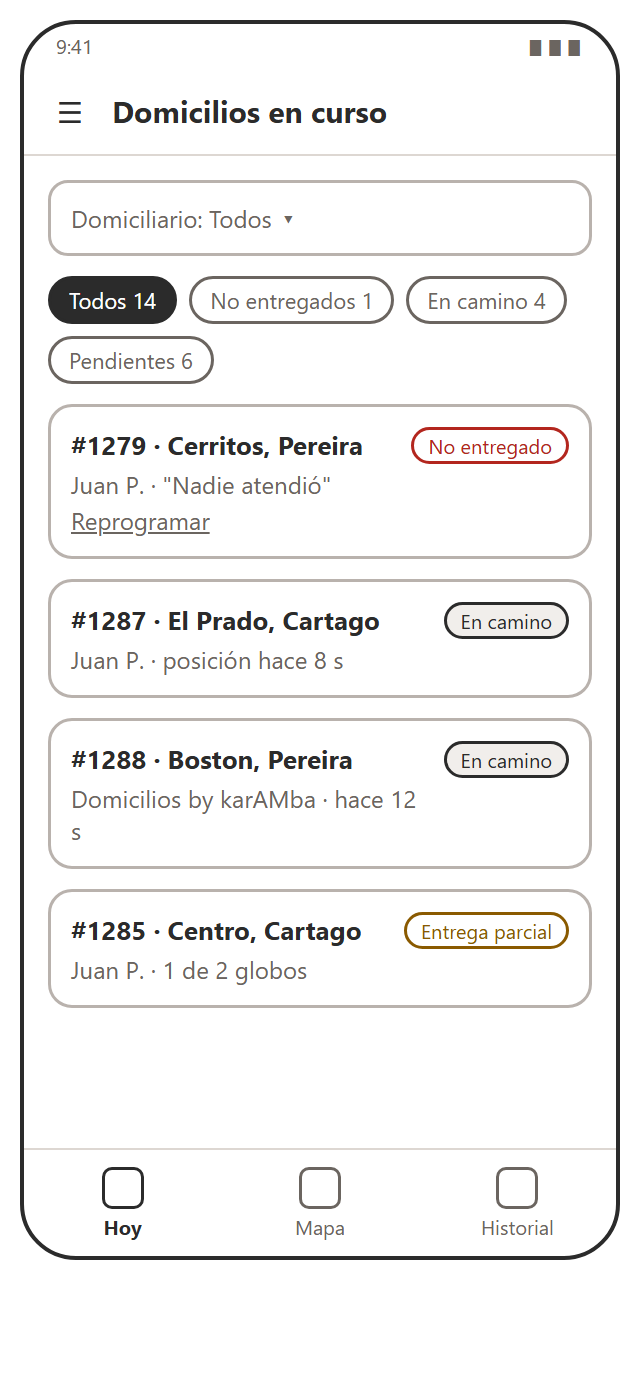
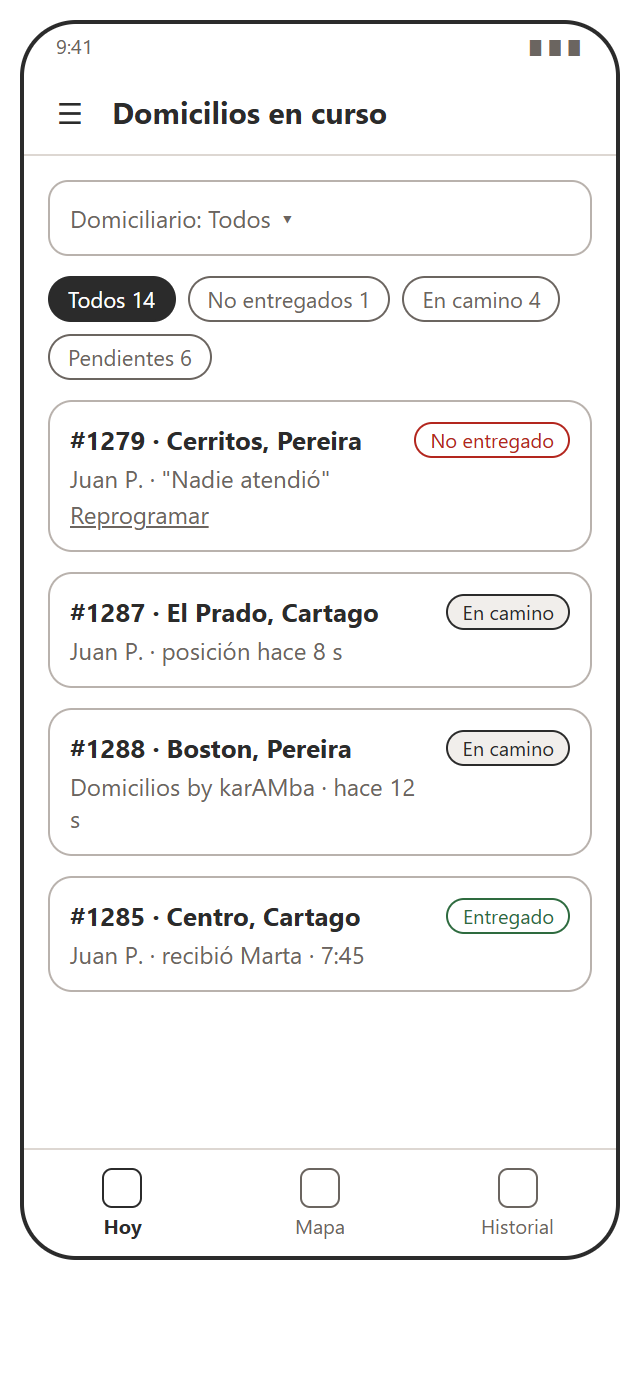
docs: quita la entrega parcial de los wireframes
Confirmar entrega solo pide quién recibió y el contador de unidades pasa a un wireframe nuevo de verificación de la carga al salir. Corrige el singular del aviso de carga en la app.

diff --git a/docs/wireframes/index.html b/docs/wireframes/index.html
@@ -269,6 +269,26 @@
       <figcaption><b>Detalle del domicilio</b><code>domicilio/[id]</code> · RF-10, RF-11. Ruta dinámica. Las acciones cambian según el estado: <i>pendiente</i> → iniciar; <i>en camino</i> → confirmar o no entrega.</figcaption>
     </figure>
 
+    <figure id="verificar-carga">
+      <div class="tel">
+        <div class="barra-sis"><span>9:41</span><span>▮▮▮</span></div>
+        <div class="cab"><span class="ic">‹</span>Domicilio #1290</div>
+        <div class="cuerpo">
+          <div class="etq">Verifica lo que llevas</div>
+          <div class="txt">Cuenta las unidades de cada producto que cargas. El pedido se entrega completo.</div>
+          <div class="contador"><b>K01 Desayuna y pide un deseo</b><div class="ctl"><span>−</span><b>1</b><span class="off">+</span></div><span class="meta">Pedido: 1</span></div>
+          <div class="contador"><b>Globo metalizado</b><div class="ctl"><span>−</span><b>1</b><span>+</span></div><span class="meta" style="color:var(--aviso)">Pedido: 2</span></div>
+          <div class="txt">Falta 1 unidad por cargar.</div>
+          <div class="sep"></div>
+          <div class="etq">¿Ya saliste con el pedido?</div>
+          <div class="txt">El domicilio pasa a "En camino" y el cliente lo verá en su seguimiento. No se puede deshacer.</div>
+          <div style="flex:1"></div>
+          <div class="fila"><div class="btn sec">Cancelar</div><div class="btn inact">Sí, iniciar</div></div>
+        </div>
+      </div>
+      <figcaption><b>Iniciar recorrido: verificar la carga</b><code>domicilio/[id]</code> · RF-11, RN-06. Cada contador va de 0 a lo pedido y deshabilita el botón en el límite. "Sí, iniciar" se habilita solo con la carga completa.</figcaption>
+    </figure>
+
     <figure id="detalle-no-encontrado">
       <div class="tel">
         <div class="barra-sis"><span>9:41</span><span>▮▮▮</span></div>
@@ -357,19 +377,21 @@
         <div class="barra-sis"><span>9:41</span><span>▮▮▮</span></div>
         <div class="cab"><span class="ic">‹</span>Confirmar entrega #1287</div>
         <div class="cuerpo">
-          <div class="etq">Unidades entregadas</div>
-          <div class="contador"><b>K01 Desayuna y pide un deseo</b><div class="ctl"><span>−</span><b>1</b><span class="off">+</span></div><span class="meta">Pedido: 1</span></div>
-          <div class="contador"><b>Globo metalizado</b><div class="ctl"><span>−</span><b>1</b><span>+</span></div><span class="meta" style="color:var(--aviso)">Pedido: 2 · faltan 1</span></div>
-          <div class="aviso">Entrega parcial: falta 1 unidad. Escribe el motivo.</div>
-          <div class="etq">Motivo</div>
-          <div class="campo area">El globo se reventó en el camino</div>
-          <div class="etq">¿Quién recibió?</div>
-          <div class="chips"><span class="chip sel">Luis M. (destinatario)</span><span class="chip">Otra persona</span></div>
+          <div class="titulo">Pedido #1287</div>
+          <div class="txt">El Prado, Cartago · Cra 5 # 10-20</div>
+          <div class="caja">
+            <div class="etq">Se entrega completo</div>
+            <div class="fila"><div class="img" style="flex:none;width:36px;height:36px"></div><div class="txt"><b style="color:var(--tinta)">K01 Desayuna y pide un deseo</b> × 1</div></div>
+            <div class="fila"><div class="img" style="flex:none;width:36px;height:36px"></div><div class="txt"><b style="color:var(--tinta)">Globo metalizado</b> × 2</div></div>
+          </div>
+          <div class="etq">Quién recibió</div>
+          <div class="campo" style="color:var(--tinta)">Luis M.</div>
+          <div class="txt">Viene escrito con el destinatario; se cambia si recibió otra persona.</div>
           <div style="flex:1"></div>
-          <div class="btn">Confirmar entrega parcial</div>
+          <div class="btn">Confirmar entrega</div>
         </div>
       </div>
-      <figcaption><b>Confirmar entrega (contador)</b><code>domicilio/[id]/entregar</code> · RF-13, RN-06. Cada contador arranca en lo pedido, va de 0 a lo pedido y deshabilita el botón en el límite. Si todo queda en 0, se pide reportar no entrega.</figcaption>
+      <figcaption><b>Confirmar entrega</b><code>domicilio/[id]/entregar</code> · RF-13, RN-06. El pedido siempre se entrega completo: solo se pide quién recibió, que viene escrito con el destinatario y no puede quedar vacío. Sin conexión no se confirma nada y se conserva lo escrito.</figcaption>
     </figure>
 
     <figure id="no-entregar">
@@ -425,7 +447,7 @@
           <div class="tarjeta"><b>#1279 · Cerritos, Pereira</b><span class="chip no">No entregado</span><span class="meta">Juan P. · "Nadie atendió"</span><span class="meta"><u>Reprogramar</u></span></div>
           <div class="tarjeta"><b>#1287 · El Prado, Cartago</b><span class="chip camino">En camino</span><span class="meta">Juan P. · posición hace 8 s</span></div>
           <div class="tarjeta"><b>#1288 · Boston, Pereira</b><span class="chip camino">En camino</span><span class="meta">Domicilios by karAMba · hace 12 s</span></div>
-          <div class="tarjeta"><b>#1285 · Centro, Cartago</b><span class="chip parcial">Entrega parcial</span><span class="meta">Juan P. · 1 de 2 globos</span></div>
+          <div class="tarjeta"><b>#1285 · Centro, Cartago</b><span class="chip ok">Entregado</span><span class="meta">Juan P. · recibió Marta · 7:45</span></div>
         </div>
         <div class="pestanas"><div class="act">Hoy</div><div>Mapa</div><div>Historial</div></div>
       </div>
@@ -484,9 +506,9 @@
         <div class="cab"><span class="ic">☰</span>Historial</div>
         <div class="cuerpo">
           <div class="fila"><div class="campo">01/11 – 09/11 ▾</div><div class="campo">Todos ▾</div></div>
-          <div class="chips"><span class="chip sel">Todos</span><span class="chip">Entregados</span><span class="chip">Parciales</span><span class="chip">No entregados</span></div>
+          <div class="chips"><span class="chip sel">Todos</span><span class="chip">Entregados</span><span class="chip">No entregados</span></div>
           <div class="tarjeta"><b>#1284 · Centro, Cartago</b><span class="chip ok">Entregado</span><span class="meta">09/11 7:10 · Marta</span></div>
-          <div class="tarjeta"><b>#1285 · Centro, Cartago</b><span class="chip parcial">Parcial</span><span class="meta">09/11 7:45 · 1 de 2 globos</span></div>
+          <div class="tarjeta"><b>#1285 · Centro, Cartago</b><span class="chip ok">Entregado</span><span class="meta">09/11 7:45 · Luis</span></div>
           <div class="tarjeta"><b>#1279 · Cerritos, Pereira</b><span class="chip no">No entregado</span><span class="meta">08/11 · Reprogramado → #1279-2 ($ 5.000)</span></div>
           <div class="tarjeta"><b>#1270 · Boston, Pereira</b><span class="chip ok">Entregado</span><span class="meta">08/11 16:20 · Luis</span></div>
         </div>
@@ -565,7 +587,7 @@
           <div class="txt">Ya no se muestra la ubicación del domiciliario.</div>
         </div>
       </div>
-      <figcaption><b>Seguimiento: resultado y reprogramación</b><code>seguimiento/[token]</code> · RF-08, RN-04. Para una entrega parcial se listan las unidades entregadas por producto.</figcaption>
+      <figcaption><b>Seguimiento: resultado y reprogramación</b><code>seguimiento/[token]</code> · RF-08, RN-04.</figcaption>
     </figure>
 
     <figure id="seguimiento-no-encontrado">

diff --git a/src/app/domicilio/[id]/index.tsx b/src/app/domicilio/[id]/index.tsx
@@ -274,7 +274,9 @@ function IniciarRecorrido({ id, productos }: { id: number; productos: ProductoDo
             <Text variant="muted" accessibilityLiveRegion="polite">
               {cargaCompleta
                 ? 'Carga completa.'
-                : `Faltan ${faltan} ${faltan === 1 ? 'unidad' : 'unidades'} por cargar.`}
+                : faltan === 1
+                  ? 'Falta 1 unidad por cargar.'
+                  : `Faltan ${faltan} unidades por cargar.`}
             </Text>
             <Separator />
           </>

diff --git a/docs/bitacora.md b/docs/bitacora.md
@@ -124,3 +124,18 @@ Registro de cada sesión de trabajo: qué se buscaba, qué se hizo, quién lo hi
 - **Dificultad:** ninguna.
 - **Observaciones de revisión:** pendiente.
 - **Siguiente paso:** documentar los endpoints nuevos del backend, actualizar el wireframe de Confirmar entrega y probar en un teléfono.
+
+## 2026-11-10 — Wireframes sin entrega parcial
+
+- **Objetivo de la sesión:** que los wireframes reflejen la decisión de que el pedido siempre se entrega completo.
+- **Tarea realizada:**
+  - Confirmar entrega muestra los productos como "Se entrega completo" y solo pide quién recibió, ya escrito con el destinatario.
+  - Wireframe nuevo, "Iniciar recorrido: verificar la carga", con el contador de unidades que antes estaba en la entrega.
+  - Se quitó la entrega parcial de Domicilios en curso, del Historial (ya no hay filtro de parciales) y de la nota del seguimiento con resultado.
+  - Se regeneraron las imágenes de las cuatro pantallas y se borró `docs/wireframes/png$id.png`, una copia suelta de otra imagen.
+  - App: con una sola unidad por cargar, el aviso dice "Falta 1 unidad por cargar." en vez de "Faltan 1 unidad".
+- **Responsable:** Camilo Agudelo.
+- **Evidencia:** commit `docs: quita la entrega parcial de los wireframes`; `docs/wireframes/index.html` y `docs/wireframes/png/`. Verificación: `tsc` sin errores; se revisaron a ojo las imágenes regeneradas.
+- **Dificultad:** ninguna.
+- **Observaciones de revisión:** pendiente.
+- **Siguiente paso:** documentar los endpoints nuevos del backend y probar en un teléfono.
